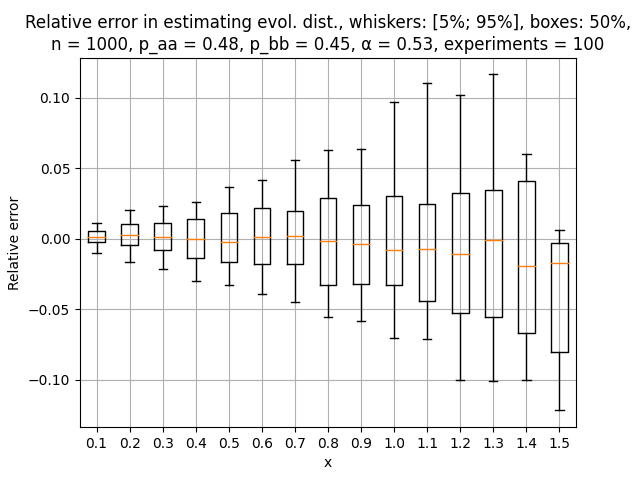
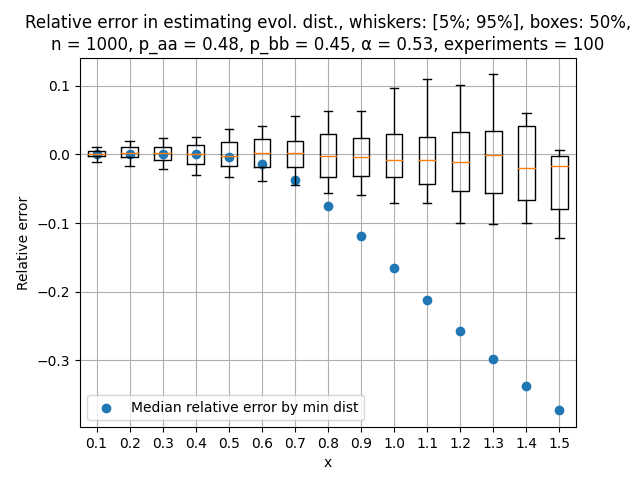
add median for relative error by min distance

diff --git a/3d_fragile_breakage_model/src/true_evolutionary_distance.py b/3d_fragile_breakage_model/src/true_evolutionary_distance.py
@@ -506,7 +506,7 @@ def compute_true_evolutionary_distance(parameter_index, method):
 
 
 def compute_true_evolutionary_distance_for_box_plot(
-    parameter_index, number_of_experiments, method
+    parameter_index, number_of_experiments, k_step, method
 ):
     max_cycle_len_with_types = 4
     sum_to = 10
@@ -538,7 +538,7 @@ def compute_true_evolutionary_distance_for_box_plot(
 
     for i, experiment in enumerate(experiments):
         # Go through each step.
-        for k in range(100, len(experiment), 200):
+        for k in range(100, len(experiment), k_step):
             graph = experiment[k]
             # cur_dist_info = find_true_evolution_dist_fixed_parameters(
             #     graph, p_aa, p_bb, alpha, use_b_d_in_log=True
@@ -788,16 +788,11 @@ def draw_true_dist_with_additional_plot(
         )
 
 
-def get_median_min_distance_error(parameter_index, number_of_experiments):
+def get_median_errors_by_min_dist(parameter_index, number_of_experiments, k_step=100):
     max_cycle_len_with_types = 0
     start_time = time.time()
     parameter = parameters.PROBABILITIES_WITH_ALPHA[parameter_index]
-    file, p_aa, p_bb, alpha = (
-        parameter["parameters_str"],
-        parameter["p_aa"],
-        parameter["p_bb"],
-        parameter["alpha"],
-    )
+    file = parameter["parameters_str"]
     if parameter["experiments_in_one_bunch"] != 1:
         print("experiments_in_one_bunch should be 1")
         return
@@ -816,19 +811,25 @@ def get_median_min_distance_error(parameter_index, number_of_experiments):
     median_errors_by_min_dist_k = []
     steps = len(experiments[0])
 
-    for k in range(100, steps, 200):
+    for k in range(100, steps, k_step):
         sample = list(map(lambda experiment: (experiment[k].d - k) / k, experiments))
-        median_errors_by_min_dist_k.append({"k": k, "median_errors_by_min_dist": median(sample)})
+        median_errors_by_min_dist_k.append(
+            {"k": k, "median_errors_by_min_dist": median(sample)}
+        )
 
     log_dictionaries(
         median_errors_by_min_dist_k,
-        "3d_fragile_breakage_model/logs/min_distance_relative_error/" + file + ".csv",
+        "3d_fragile_breakage_model/logs/median_errors_by_min_dist/" + file + ".csv",
     )
 
-    print("time:", (time.time() - start_time) / 60, " m.")
+    print(
+        "finish get_median_errors_by_min_dist, time:",
+        (time.time() - start_time) / 60,
+        " m.",
+    )
 
 
-def draw_box_plot(folder_name, number_of_experiments, parameter_index):
+def draw_box_plot(folder_name, number_of_experiments, parameter_index, from_percentile, to_percentile):
     cur_parameters = parameters.PROBABILITIES_WITH_ALPHA[parameter_index]
     file, p_aa, p_bb, alpha = (
         cur_parameters["parameters_str"],
@@ -842,6 +843,14 @@ def draw_box_plot(folder_name, number_of_experiments, parameter_index):
     dist_info = read_logs(
         "3d_fragile_breakage_model/logs/" + folder_name + file + ".csv"
     )
+    median_errors_by_min_dist_log = read_logs(
+        "3d_fragile_breakage_model/logs/median_errors_by_min_dist/" + file + ".csv"
+    )
+    median_errors_by_min_dist_dict = {}
+    for median_error in median_errors_by_min_dist_log:
+        median_errors_by_min_dist_dict[median_error["k"]] = float(
+            median_error["median_errors_by_min_dist"]
+        )
     experiments = []
     cur_experiment_index = 0
     cur_experiment = []
@@ -858,7 +867,12 @@ def draw_box_plot(folder_name, number_of_experiments, parameter_index):
     samples_k = []
     steps = len(experiments[0])
     ks = []
+    median_errors_by_min_dist = []
     for k in range(steps):
+        median_errors_by_min_dist.append(
+            median_errors_by_min_dist_dict[experiments[0][k]["empirical_true_dist"]]
+        )
+
         ks.append(
             float(experiments[0][k]["empirical_true_dist"])
             / parameters.NUMBER_OF_FRAGILE_EDGES
@@ -876,8 +890,6 @@ def draw_box_plot(folder_name, number_of_experiments, parameter_index):
 
         samples_k.append(sample)
 
-    from_percentile = 7.5
-    to_percentile = 92.5
     fig, ax1 = plt.subplots()
     ax1.boxplot(samples_k, sym="", whis=(from_percentile, to_percentile))
     ax1.set(
@@ -895,6 +907,13 @@ def draw_box_plot(folder_name, number_of_experiments, parameter_index):
     )
     plt.grid()
 
+    plt.scatter(
+        range(1, steps + 1),
+        median_errors_by_min_dist,
+        label="Median relative error by min dist",
+    )
+    plt.legend(loc="lower left")
+
     ax1.set_xlim(0.5, len(samples_k) + 0.5)
     ax1.set_xticklabels(ks)
 
@@ -909,15 +928,23 @@ def main():
     # method_to_run = "true_evolution_distance_fixed/box_plot/log_"
     index_of_parameters = 14
     number_of_experiments = 100
+    k_step = 200
+    # k_step = 100
     # compute_true_evolutionary_distance_for_box_plot(
     #     parameter_index=index_of_parameters,
     #     number_of_experiments=number_of_experiments,
+    #     k_step=k_step,
     #     method=method_to_run,
     # )
+    # get_median_errors_by_min_dist(index_of_parameters, number_of_experiments)
+    from_percentile = 5
+    to_percentile = 95
     draw_box_plot(
         folder_name=method_to_run,
         number_of_experiments=number_of_experiments,
         parameter_index=index_of_parameters,
+        from_percentile=from_percentile,
+        to_percentile=to_percentile
     )
     # compute_true_evolutionary_distance(index_of_parameters, method_to_run)
     # draw_true_dist_for_parameters(
